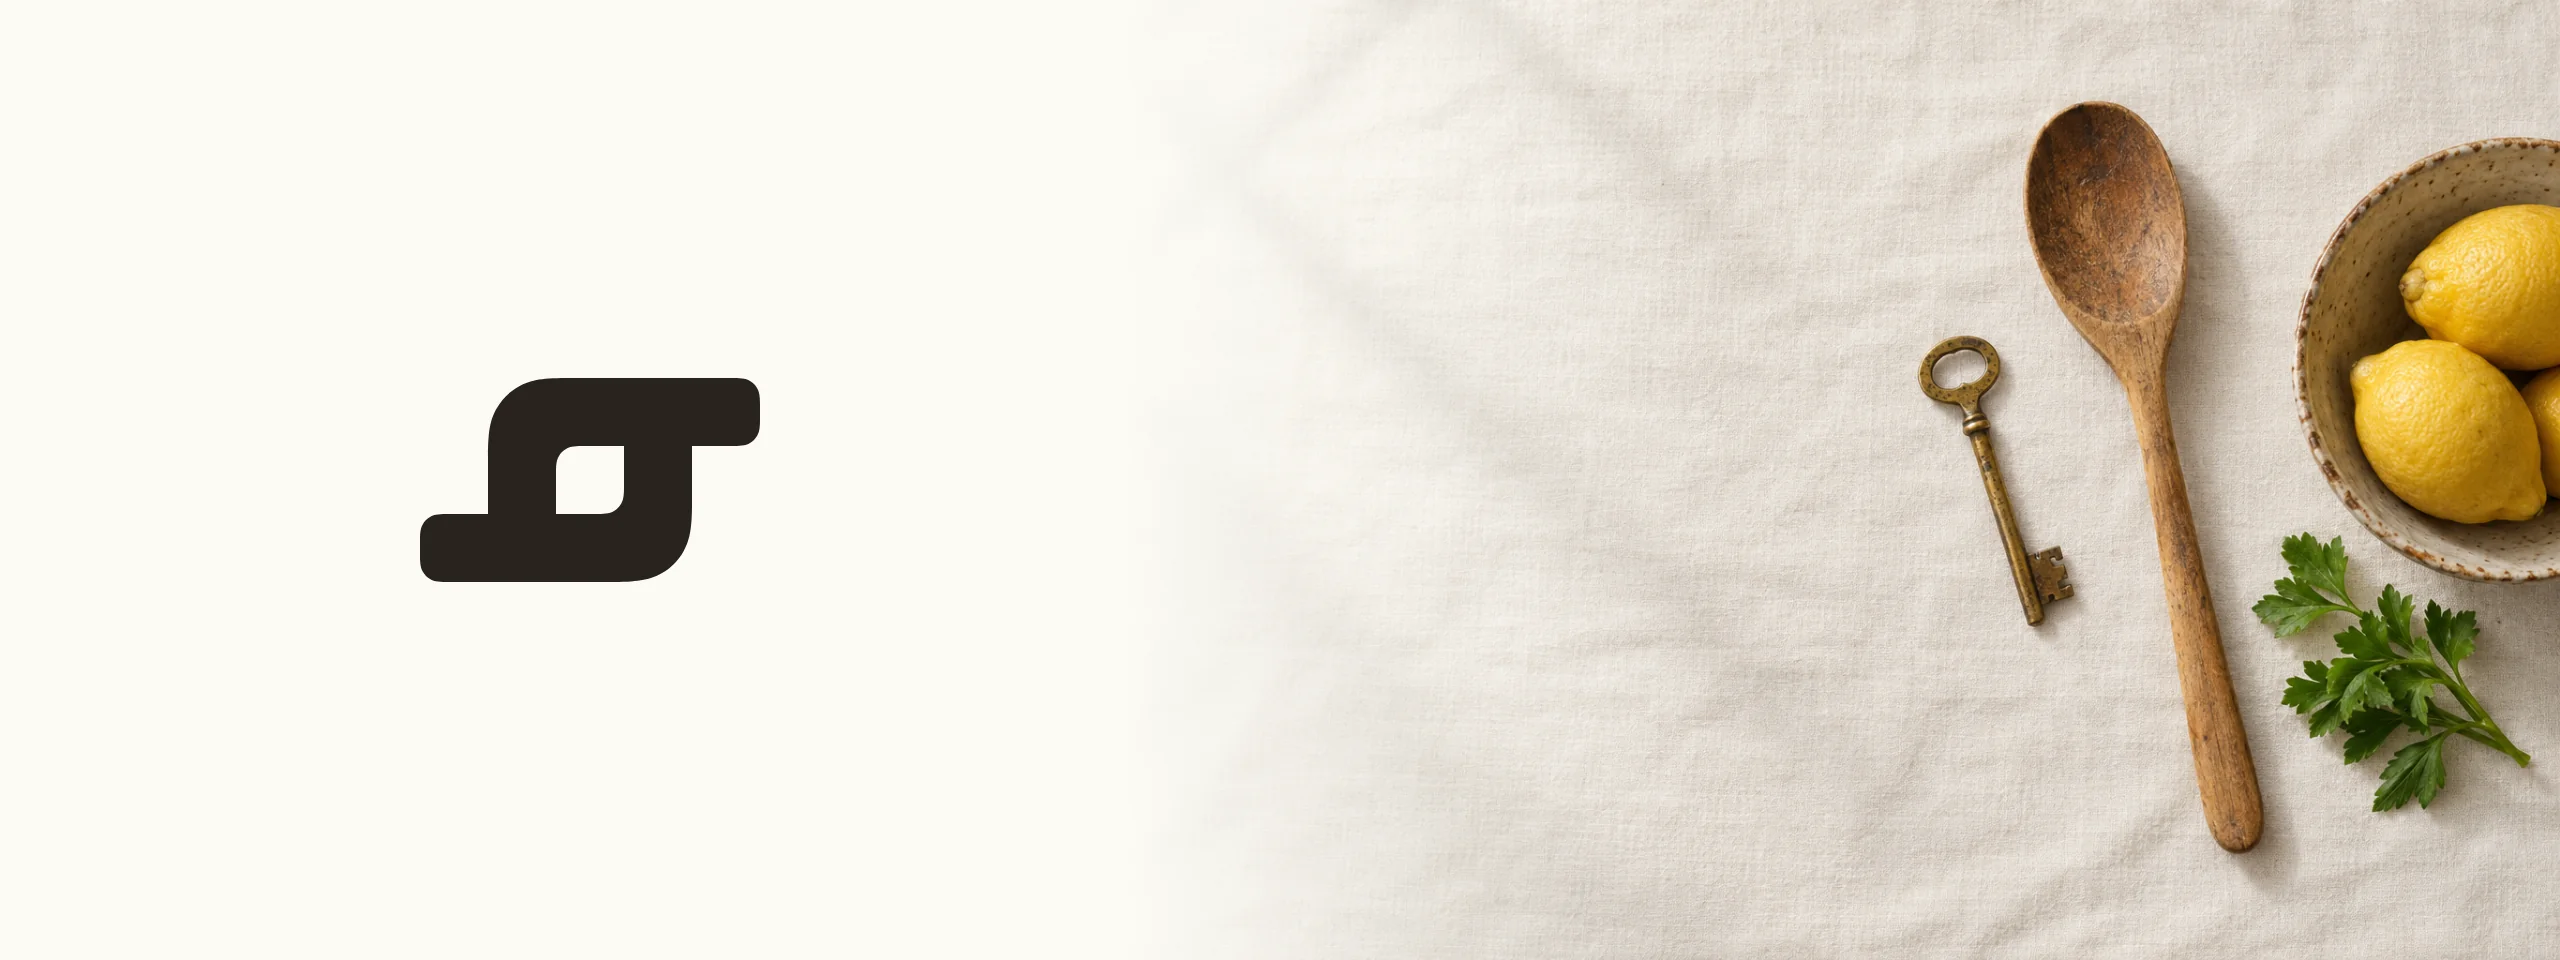
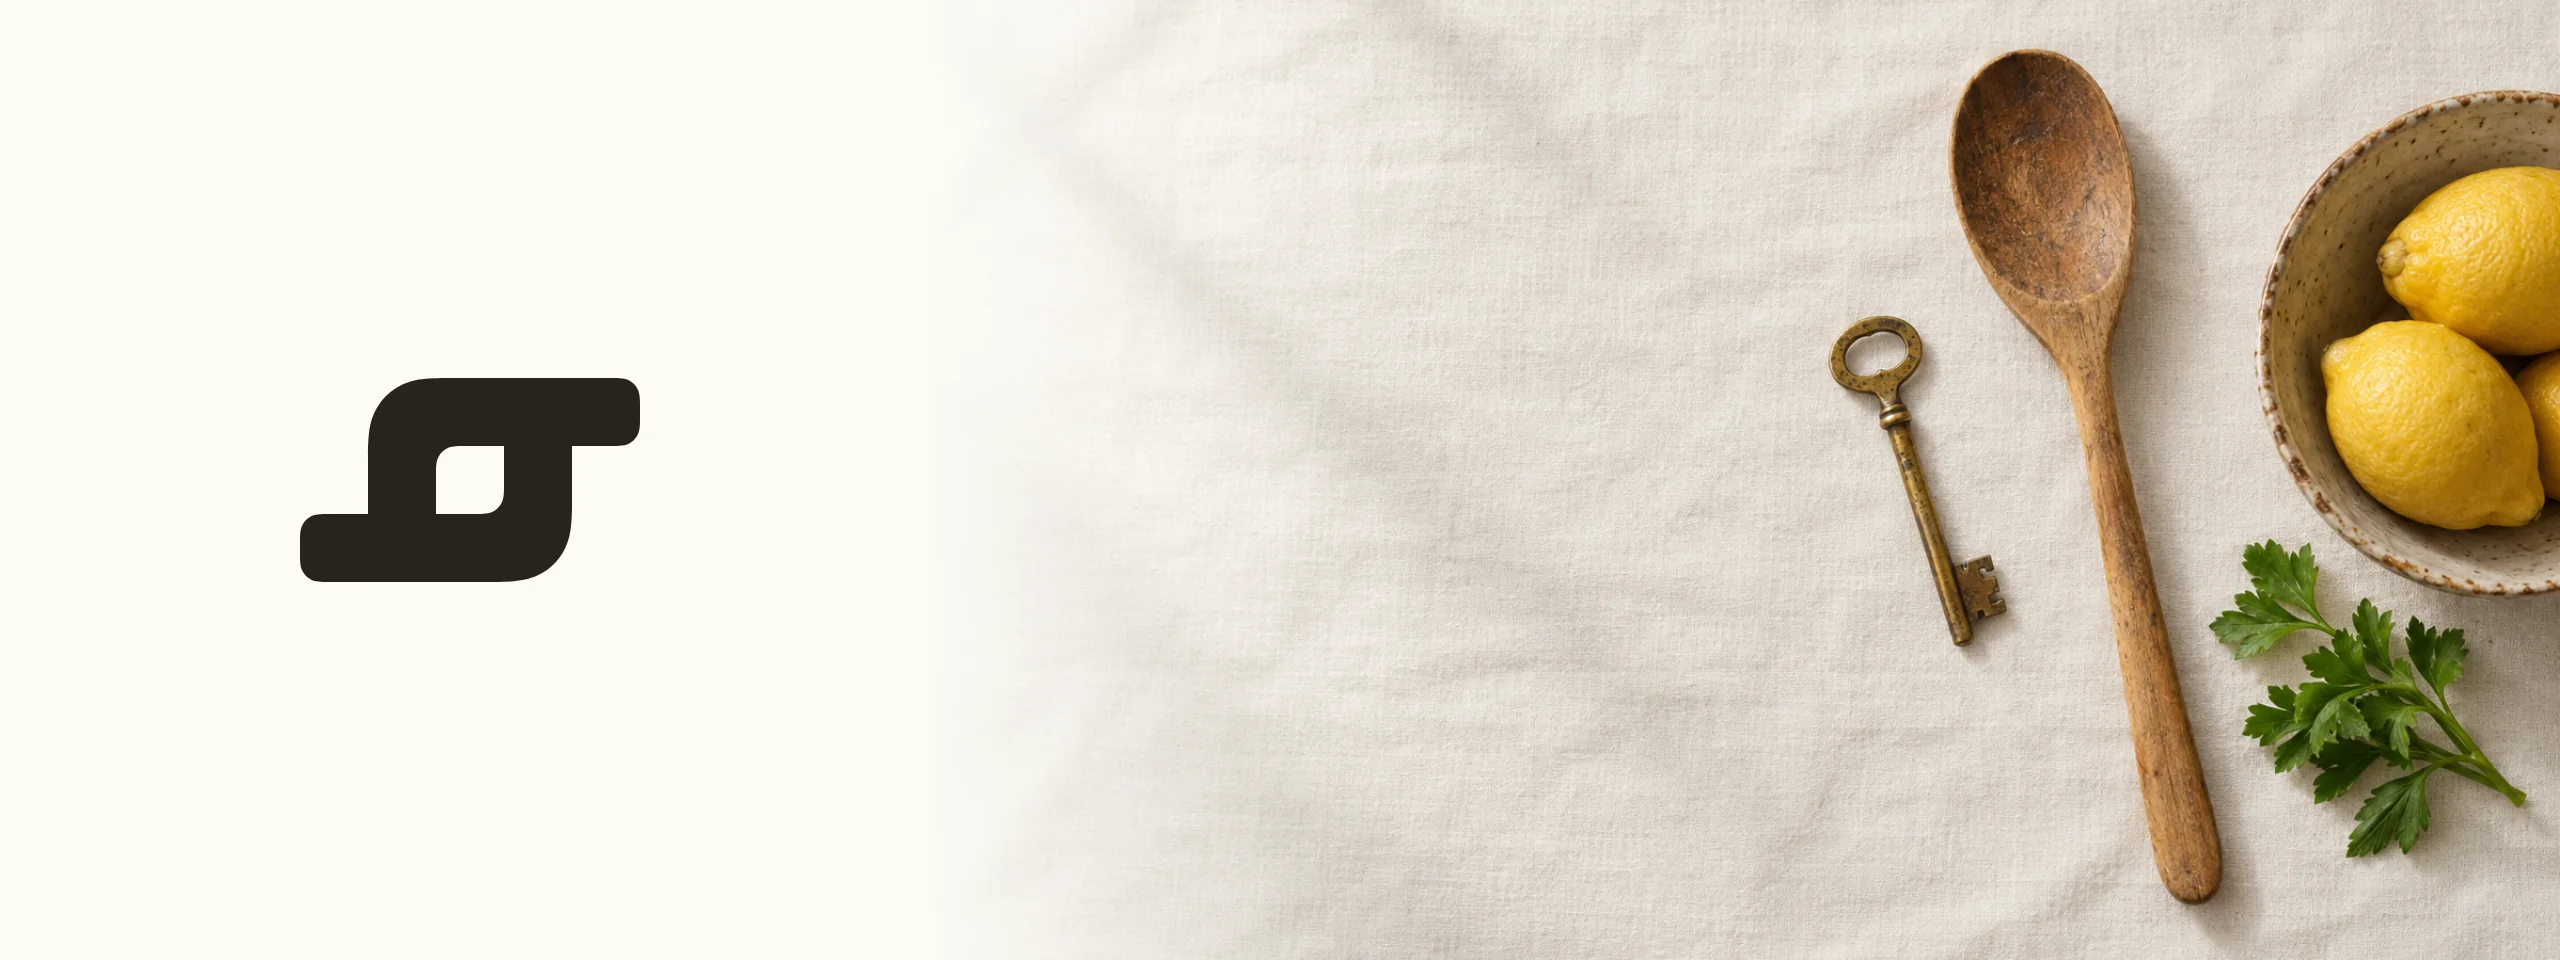
Headers: v2 shows only the site's headline, devices whole, photo runs further left; v2 card clears the headline

diff --git a/brand/tools/compose.html b/brand/tools/compose.html
@@ -51,9 +51,9 @@ const dark = theme === "dark";
 const mark = (x, y, w) => `<svg class="mark" style="left:${x}px;top:${y}px;width:${w}px;height:${w*0.6}px" viewBox="0 0 500 300"><use href="#sj"/></svg>`;
 const phone = (src, x, y, w, rot = 0, z = 1) => `<div class="phone shadow" style="left:${x}px;top:${y}px;width:${w}px;transform:rotate(${rot}deg);z-index:${z}"><img src="${src}"></div>`;
 const still = (src) => `
-    <div style="position:absolute;right:0;top:0;width:720px;height:480px"><img src="${dark ? src.replace(".png", "-dark.png") : src}" style="width:720px;height:480px;object-fit:cover"></div>
-    <div class="fade" style="background:linear-gradient(90deg,var(--bone) 0,var(--bone) 560px,color-mix(in srgb,var(--bone) 0%,transparent) 860px)"></div>
-    ${mark(210, 189, 170)}
+    <div style="position:absolute;right:0;top:0;width:820px;height:480px"><img src="${dark ? src.replace(".png", "-dark.png") : src}" style="width:820px;height:480px;object-fit:cover"></div>
+    <div class="fade" style="background:linear-gradient(90deg,var(--bone) 0,var(--bone) 460px,color-mix(in srgb,var(--bone) 0%,transparent) 720px)"></div>
+    ${mark(150, 189, 170)}
   `;
 const A = {
   // Org profile: the kitchen table. Dinner photo on the right, paper on the left with the mark and a shelf of covers, a phone on the seam.
@@ -70,19 +70,19 @@ const A = {
   `,
   // Web app: the site in a browser window, a plate of lemon pasta set beside it.
   web: () => `
-    <div class="window shadow" style="left:96px;top:60px;width:900px;height:600px">
+    <div class="window shadow" style="left:72px;top:82px;width:900px;height:318px">
       <div class="chrome"><i></i><i></i><i></i><span class="pill"></span></div>
       <img src="site-1440-${theme}.png" style="width:900px">
     </div>
-    <div class="plate shadow" style="left:880px;top:190px;width:320px;height:320px"><img src="lemon-pasta.png" style="object-position:43% 50%;transform:scale(1.08)"></div>
+    <div class="plate shadow" style="left:880px;top:112px;width:300px;height:300px"><img src="lemon-pasta.png" style="object-position:43% 50%;transform:scale(1.08)"></div>
   `,
   // Social card art for the web app: the site's headline in a narrower window, the plate at its corner.
   webog: () => `
-    <div class="window shadow" style="left:16px;top:64px;width:680px;height:600px">
+    <div class="window shadow" style="left:16px;top:52px;width:680px;height:246px">
       <div class="chrome"><i></i><i></i><i></i><span class="pill"></span></div>
       <img src="site-1440-${theme}.png" style="width:680px">
     </div>
-    <div class="plate shadow" style="left:262px;top:300px;width:220px;height:220px"><img src="lemon-pasta.png" style="object-position:43% 50%;transform:scale(1.08)"></div>
+    <div class="plate shadow" style="left:296px;top:300px;width:168px;height:168px"><img src="lemon-pasta.png" style="object-position:43% 50%;transform:scale(1.08)"></div>
   `,
   // Social card art for Apple: two whole phones.
   appleog: () => `
@@ -91,9 +91,9 @@ const A = {
   `,
   // Apple: the Mac window, an iPhone in front.
   apple: () => `
-    <div class="window shadow" style="left:72px;top:62px;width:600px;border-radius:10px"><img src="mac-kitchen.png" style="width:600px"></div>
-    ${phone("phone-01-cook.png", 716, 52, 210, -3, 2)}
-    ${phone("phone-02-recipe.png", 966, 40, 210, 3, 2)}
+    <div class="window shadow" style="left:72px;top:56px;width:580px;border-radius:10px"><img src="mac-kitchen.png" style="width:580px"></div>
+    ${phone("phone-01-cook.png", 712, 40, 186, -3, 2)}
+    ${phone("phone-02-recipe.png", 948, 34, 186, 3, 2)}
   `,
   // RedwoodJS dbAuth OAuth: the key photo on the right, paper and the mark on the left.
   oauth: () => still("oauth-key.png"),

diff --git a/profile/README.md b/profile/README.md
@@ -11,7 +11,7 @@
 
 [**Cook a recipe now, no account needed →**](https://spoonjoy.app/test-kitchen) &nbsp;·&nbsp; [spoonjoy.app](https://spoonjoy.app) &nbsp;·&nbsp; [Support](https://spoonjoy.app/support)
 
-<a href="https://github.com/spoonjoy/spoonjoy-v2"><picture><source media="(prefers-color-scheme: dark)" srcset="https://raw.githubusercontent.com/spoonjoy/.github/main/brand/headers/spoonjoy-v2-dark.webp"><img src="https://raw.githubusercontent.com/spoonjoy/.github/main/brand/headers/spoonjoy-v2-light.webp" alt="The Spoonjoy home page open in a browser window, with a plate of lemon pantry pasta set beside it" width="100%"></picture></a>
+<a href="https://github.com/spoonjoy/spoonjoy-v2"><picture><source media="(prefers-color-scheme: dark)" srcset="https://raw.githubusercontent.com/spoonjoy/.github/main/brand/headers/spoonjoy-v2-dark.webp"><img src="https://raw.githubusercontent.com/spoonjoy/.github/main/brand/headers/spoonjoy-v2-light.webp" alt="The Spoonjoy home page headline, &ldquo;Your food should look as good as it tastes,&rdquo; in a browser window, with a plate of lemon pantry pasta at its edge" width="100%"></picture></a>
 
 **[spoonjoy-v2](https://github.com/spoonjoy/spoonjoy-v2)**: the web app, its API and its MCP server, on Cloudflare.
 
